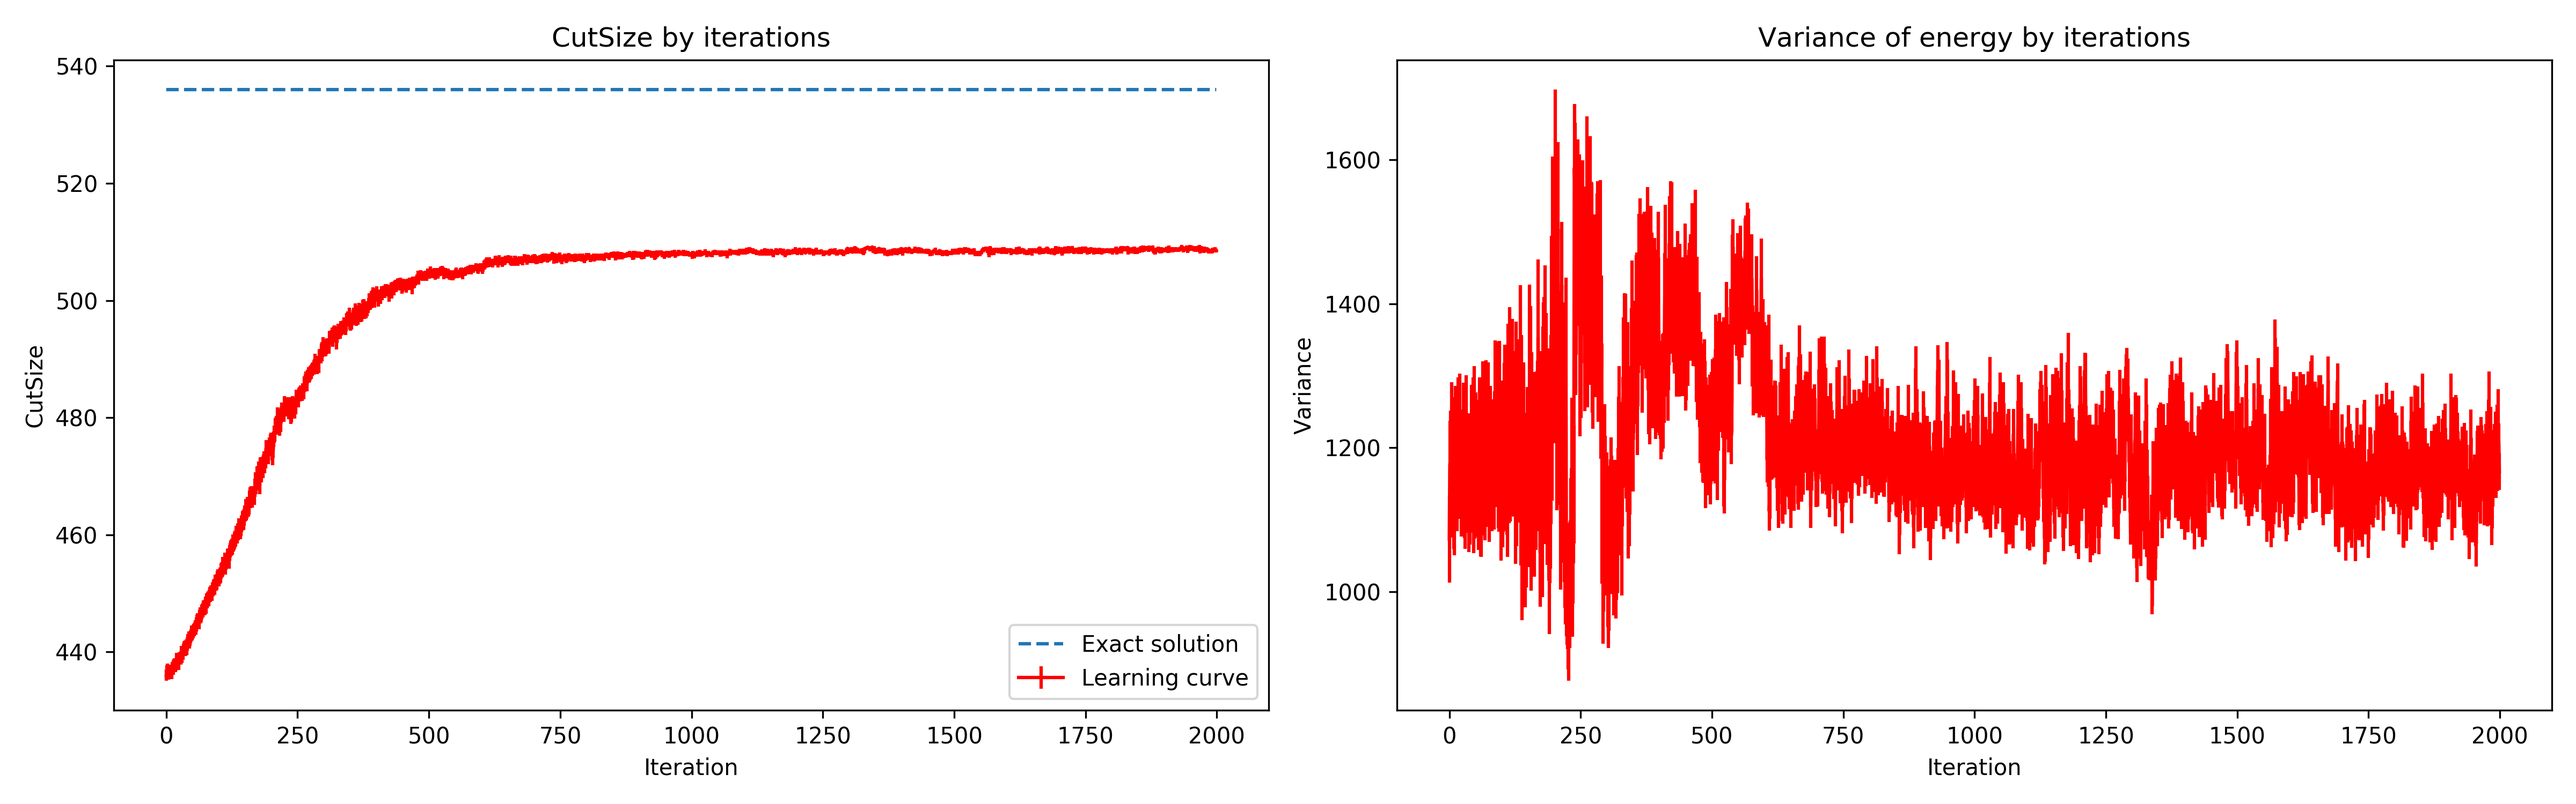
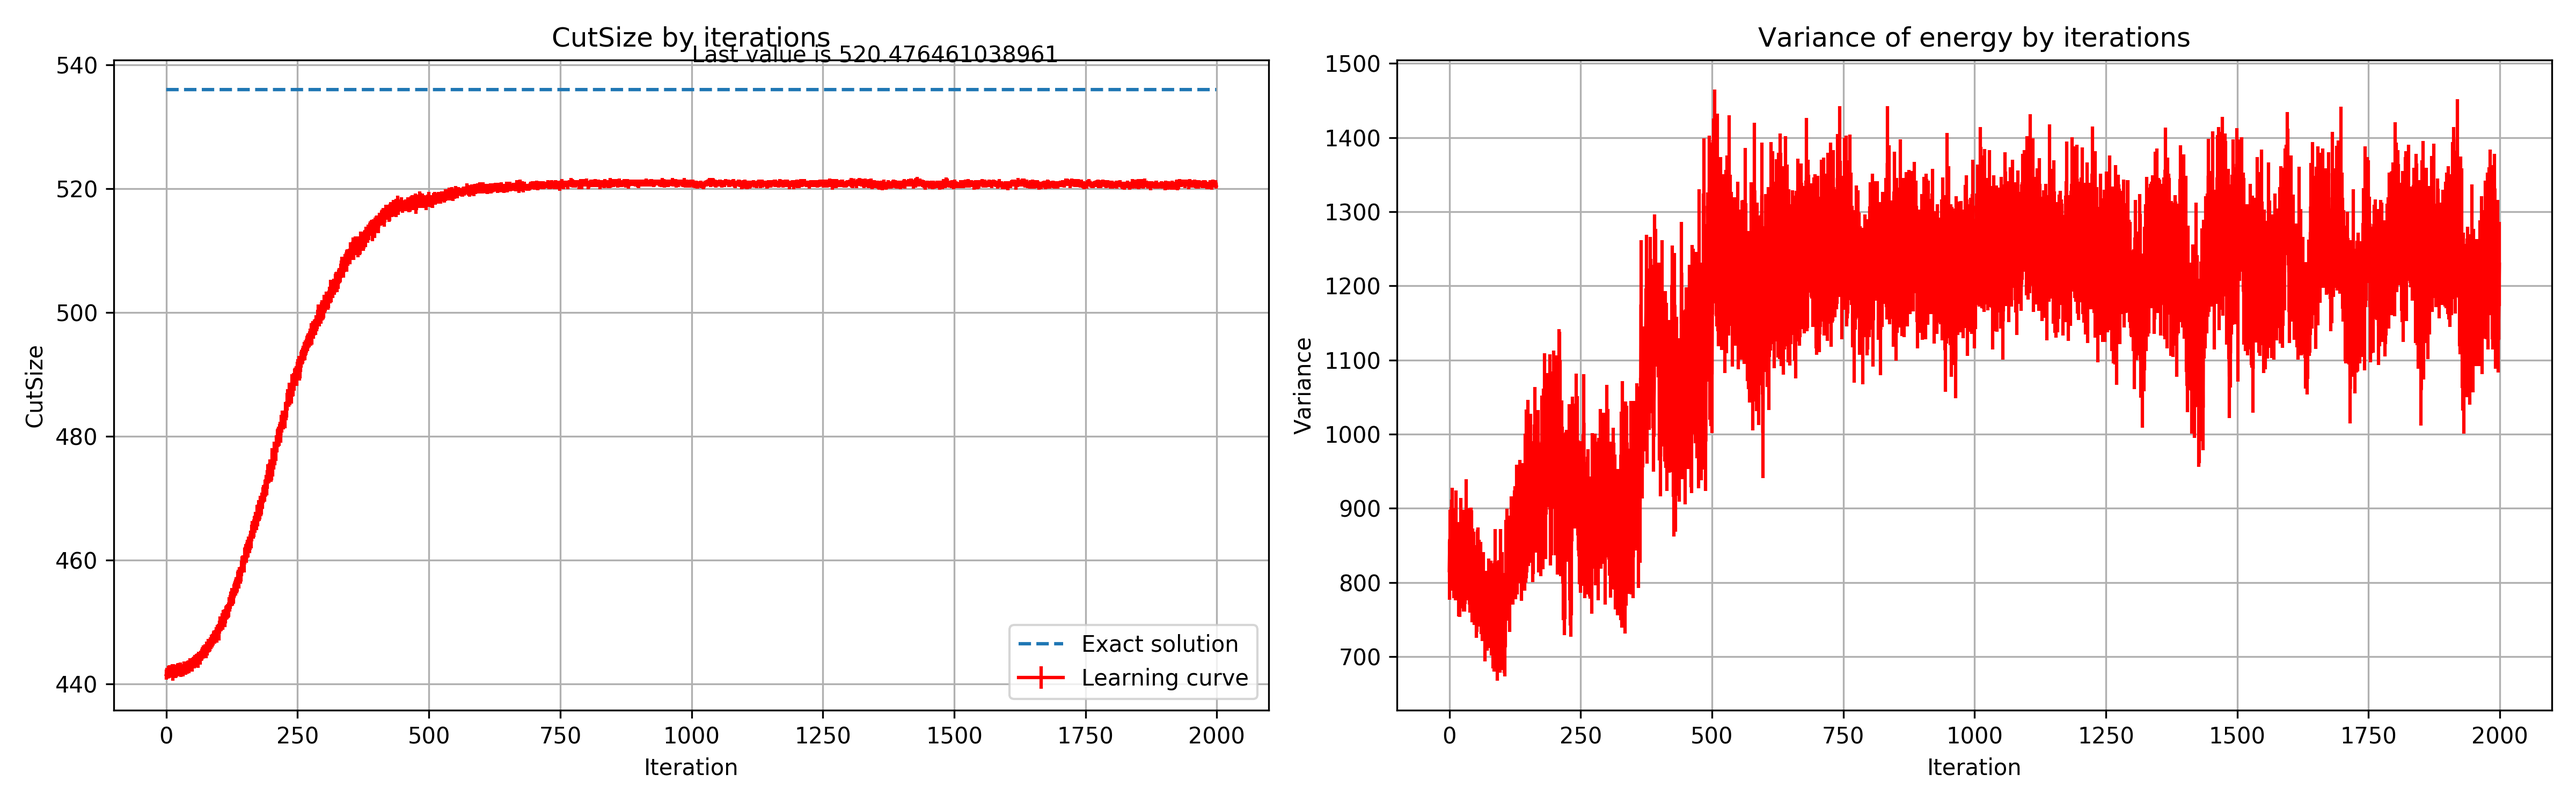
fix

diff --git a/src/NetketOptimizer.py b/src/NetketOptimizer.py
@@ -134,8 +134,8 @@ class NetKetOptimizer(object):
         ax[0].legend()
         ax[0].text(
             results_df["iter"].iloc[-1000],
-            -(results_df["e"].iloc[-1] - num_edges) / 2 + 20,
-            "Last value is {}".format(-(results_df["e"].iloc[-1] - num_edges) / 2))
+            -(results_df["e"].iloc[-1] - num_edges) / 2 + 5,
+            "Last value is {.2f}".format(-(results_df["e"].iloc[-1] - num_edges) / 2))
 
         ax[1].errorbar(
             results_df["iter"],
